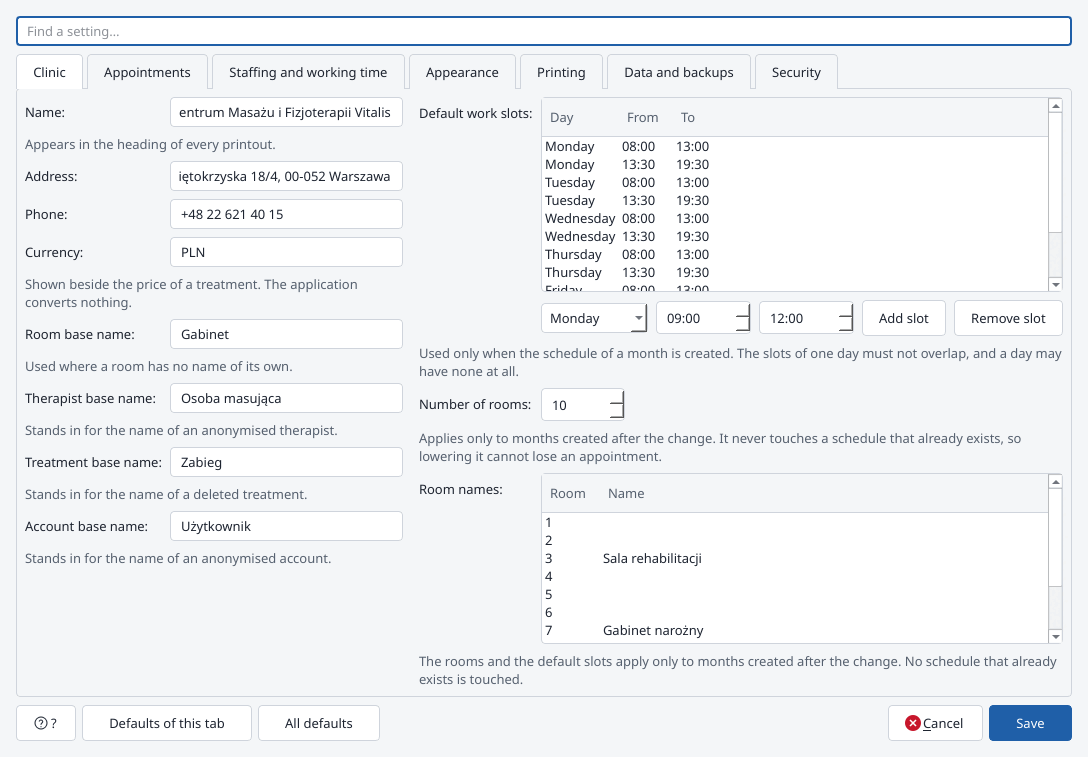
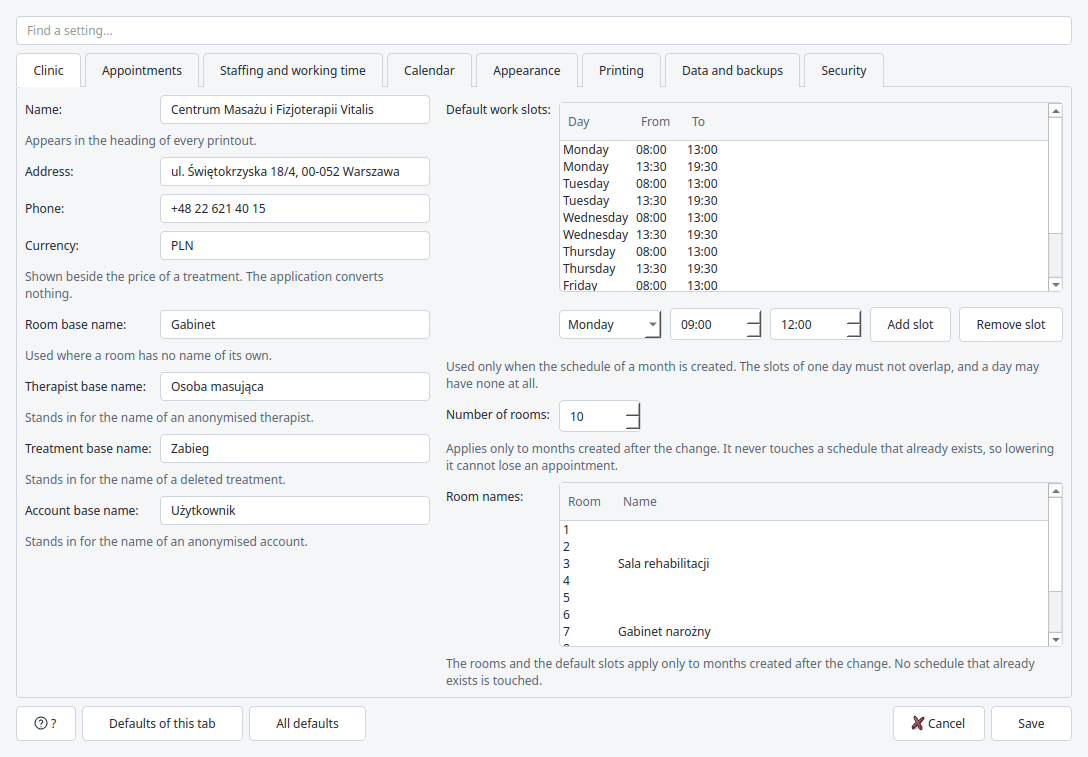
GH pages update

diff --git a/docs/en/index.html b/docs/en/index.html
@@ -54,7 +54,7 @@
     <div class="wrap">
         <div class="hero-grid">
             <div>
-                <span class="eyebrow">Version 1.4.0 · Windows and Linux</span>
+                <span class="eyebrow">Version 1.6.0 · Windows and Linux</span>
                 <h1>Schedule and patient records for a massage therapy clinic</h1>
                 <p class="lede">
                     <strong>clinic</strong> runs the front desk of a therapeutic massage clinic:
@@ -128,8 +128,8 @@
                 <p>
                     Search by any fragment of any field, a journal of contraindications,
                     a register of unexcused absences and a warning note — all visible before an
-                    appointment is saved. The visit history and a quick booking of the next
-                    appointment sit right in the patient card.
+                    appointment is saved. The appointments with the state of their invoices and
+                    a quick booking of the next one sit right in the patient card.
                 </p>
             </article>
             <article class="card">
@@ -180,7 +180,7 @@
                 <ul class="feature-list">
                     <li><strong>Three spans</strong> — a day, several days (2–6) and a week (5 or 7 days), switched with one click or a shortcut.</li>
                     <li><strong>The staffing heading</strong> above every room names everybody who worked in it during the slot; finished shifts are struck through and the colour comes from the therapist catalogue.</li>
-                    <li><strong>An appointment tile</strong> shows the time, the patient and the treatment, and once completed also the therapist; the colour follows the status and the turnaround is drawn as a separate bar.</li>
+                    <li><strong>An appointment tile</strong> shows the time, the patient and the treatment, and once completed also the therapist; the colour and the opacity follow the status, an icon in the corner tells the invoice, and the turnaround is drawn as a separate bar.</li>
                     <li><strong>Mouse work</strong> — selecting empty space creates an appointment, dragging moves it between hours, rooms and days, and the bottom edge changes its length.</li>
                     <li><strong>Filters and scaling</strong> — hide statuses and rooms, zoom vertically and horizontally, print exactly what is on the screen.</li>
                 </ul>
@@ -207,6 +207,7 @@
                 </p>
                 <ul class="feature-list">
                     <li><strong>A series of appointments</strong> — the “ticked k of N” counter makes sure the patient leaves with a full set, and clashes with their other appointments are blocked as they are ticked.</li>
+                    <li><strong>A horizon or an end date</strong> — the search reaches a number of days ahead or up to a day picked from a calendar; the window remembers the last choice and the last date.</li>
                     <li><strong>Free rooms beside every time</strong> — either leave the choice to the program or pick a room by hand.</li>
                     <li><strong>A therapist criterion</strong> — when the patient asks for somebody in particular, the result narrows down to the rooms those people staff.</li>
                     <li><strong>Warnings before saving</strong> — the patient's contraindications, the untrusted mark and the months that have no schedule yet.</li>
@@ -229,22 +230,23 @@
                 <p>
                     The patient card holds the personal and address data, administrative notes,
                     the journal of contraindications, referrals and consents, the register of
-                    absences and the full visit history.
+                    absences and the full list of appointments with the state of each invoice.
                 </p>
                 <ul class="feature-list">
                     <li><strong>One search field</strong> — first name, surname, record number, national ID, phone, e-mail or address; matching ignores letter case and Polish diacritics.</li>
                     <li><strong>Contraindications as a journal</strong> — dated entries added one after another, never overwritten, with the warning already visible when the patient is picked.</li>
                     <li><strong>Patient trust</strong> — unexcused absences are counted against a threshold; an untrusted patient is marked with a colour and an “(!)” everywhere they appear.</li>
+                    <li><strong>Appointments and invoices in one place</strong> — the “Appointments” tab gives the therapist and the state of the invoice for every appointment: no, yes or collected; a double click opens the appointment form.</li>
                     <li><strong>Anonymisation on request (GDPR)</strong> — the personal data goes, the record number and the visit history stay.</li>
                     <li><strong>The record number</strong> is assigned automatically and never reused.</li>
                 </ul>
             </div>
             <figure class="shot">
                 <div class="shot-frame">
-                    <div class="bar"><i></i><i></i><i></i><span>Patient card — visit history</span></div>
-                    <img src="../assets/img/screens/en/patient-history.png" alt="The patient card with the visit history tab" loading="lazy" width="1100" height="540">
+                    <div class="bar"><i></i><i></i><i></i><span>Patient card — appointments</span></div>
+                    <img src="../assets/img/screens/en/patient-history.png" alt="The patient card with the appointments tab and its invoice column" loading="lazy" width="1100" height="540">
                 </div>
-                <figcaption>The patient card — record, contraindications, absences and visit history.</figcaption>
+                <figcaption>The patient card — record, contraindications, absences and appointments, with the state of the invoice for each.</figcaption>
             </figure>
         </div>
 
@@ -261,6 +263,7 @@
                 </p>
                 <ul class="feature-list">
                     <li><strong>The appointment form</strong> with the length, the turnaround, the room, an administrative note and the invoice markers.</li>
+                    <li><strong>Any change of status</strong> — from every status to every other one, in any slot; a cancelled appointment comes back while its time is still free.</li>
                     <li><strong>Cancelling with a reason</strong> and a “patient did not show up” box that feeds the register of absences.</li>
                     <li><strong>Bulk completion</strong> of a whole slot once it has finished.</li>
                     <li><strong>The call list</strong> — the appointments of a chosen day that nobody has confirmed yet, with phone numbers and confirmation right in the list.</li>
@@ -343,16 +346,17 @@
                 <ul class="feature-list">
                     <li><strong>Therapists</strong> with their calendar colour, phone, active state and absences (holiday, sick leave).</li>
                     <li><strong>Treatments</strong> with a length, a short name and an informative price.</li>
-                    <li><strong>Seven tabs of settings</strong> with a search field over them — from the clinic details to the status colours and the security rules.</li>
-                    <li><strong>Appearance</strong> — a light or dark theme or the one of the system, the widget style and the interface language (Polish or English).</li>
+                    <li><strong>Eight tabs of settings</strong> with a search field over them — from the clinic details to the status colours and the security rules.</li>
+                    <li><strong>Calendar</strong> — the scale and the starting span, the helper lines, and the colour, text size and height of the three headings of the grid; a taller strip wraps a long name instead of enlarging the letters.</li>
+                    <li><strong>Appearance</strong> — a light or dark theme or the one of the system, the widget style, the interface language (Polish or English) and the colours and opacity of the tiles, the colours of the patient markings and of the invoice icons.</li>
                 </ul>
             </div>
             <figure class="shot">
                 <div class="shot-frame">
                     <div class="bar"><i></i><i></i><i></i><span>Settings — the Appearance tab</span></div>
-                    <img src="../assets/img/screens/en/settings-appearance.png" alt="The settings window, appearance tab with status colours and the language choice" loading="lazy" width="1088" height="757">
+                    <img src="../assets/img/screens/en/settings-appearance.png" alt="The settings window, appearance tab with the colours of the statuses, the markings and the invoice" loading="lazy" width="1088" height="757">
                 </div>
-                <figcaption>Settings — calendar scale, status colours, theme and language.</figcaption>
+                <figcaption>Settings — theme, style, language and the colours of the statuses, of the patient markings and of the invoice.</figcaption>
             </figure>
         </div>
 
@@ -469,7 +473,7 @@
         <div class="download-grid">
             <div class="download-card">
                 <h3>The latest release</h3>
-                <p class="muted small">Current version: <strong>1.4.0</strong></p>
+                <p class="muted small">Current version: <strong>1.6.0</strong></p>
                 <a class="btn btn-solid" href="https://github.com/krzysztofkaczor84/clinic/releases/latest">
                     <svg viewBox="0 0 24 24" fill="none" stroke="currentColor" stroke-width="2" stroke-linecap="round" stroke-linejoin="round"><path d="M12 3v12m0 0 4-4m-4 4-4-4M4 17v2a2 2 0 0 0 2 2h12a2 2 0 0 0 2-2v-2"/></svg>
                     Go to the releases on GitHub
@@ -526,13 +530,18 @@
                 </ul>
             </div>
             <div class="card">
-                <h3>New in 1.4.0</h3>
+                <h3>New in 1.6.0</h3>
                 <ul>
-                    <li><strong>Substitutions</strong> in the staffing heading — the replaced person stays visible and their working time in that room is zero.</li>
-                    <li><strong>A room to pick</strong> beside every time found in the booking window.</li>
-                    <li><strong>A therapist filter</strong> when searching for free times.</li>
-                    <li><strong>The widget style</strong> can be chosen in the settings, next to the theme and the language.</li>
-                    <li>Fixes in the context menus of the calendar and in moving staffing between rooms.</li>
+                    <li>The settings of the calendar have <strong>a “Calendar” tab of their own</strong>; “Appearance” keeps what the application as a whole is painted in, and the colours of the tiles and the markings.</li>
+                    <li>Every heading of the grid has <strong>a strip height separate from its text size</strong>: making the strip taller buys room for a second line, not larger letters.</li>
+                    <li><strong>Room names and therapists' names are wrapped</strong> where the strip has room for it, instead of being cut off with an ellipsis.</li>
+                    <li>A new setting for <strong>the size of the text on a tile</strong>.</li>
+                    <li><strong>The colour marking a patient</strong> — untrusted, or carrying a warning note — is now what the whole of the calendar tile is written in, exactly as the marking works on the lists.</li>
+                    <li>The state of an invoice is read off <strong>an icon in the top right corner of the tile</strong>, on the line of the time: an outline while the patient waits for it, filled once it has been collected. The “[invoice]” words are gone and have given a line of the tile back.</li>
+                    <li><strong>Tile and text opacity</strong> — the colour picker of every status, of both invoice icons and of the patient markings has an alpha channel, and the tile text an opacity of its own.</li>
+                    <li><strong>Referrals and contact consents</strong> are added, edited and removed on the patient card; a withdrawn consent stays on the card as a date.</li>
+                    <li><strong>The status of an appointment changes to any other one</strong>, in any slot — “Mark as planned” is new, and a cancelled appointment comes back while its time is still free.</li>
+                    <li>Fixed: <strong>the number of backups kept</strong> takes effect as soon as the settings are saved, without restarting the application.</li>
                 </ul>
                 <p class="small muted mb-0">The full list of changes is in the release notes on GitHub.</p>
             </div>
@@ -696,7 +705,7 @@
                 <h4>clinic</h4>
                 <p class="mb-0">
                     An application for the schedule, the patient records and the working time log
-                    of a therapeutic massage clinic. Version 1.4.0.
+                    of a therapeutic massage clinic. Version 1.6.0.
                 </p>
             </div>
             <div>

diff --git a/docs/index.html b/docs/index.html
@@ -54,7 +54,7 @@
     <div class="wrap">
         <div class="hero-grid">
             <div>
-                <span class="eyebrow">Wersja 1.4.0 · Windows i Linux</span>
+                <span class="eyebrow">Wersja 1.6.0 · Windows i Linux</span>
                 <h1>Grafik i kartoteka przychodni masażu leczniczego</h1>
                 <p class="lede">
                     <strong>clinic</strong> to program na stanowisko rejestracji: prowadzi grafik
@@ -127,8 +127,8 @@
                 <p>
                     Wyszukiwanie po dowolnym fragmencie danych, dziennik przeciwwskazań,
                     rejestr nieobecności nieusprawiedliwionych i uwagi ostrzegawcze — widoczne
-                    zanim wizyta zostanie zapisana. Historia wizyt i szybkie umówienie kolejnej
-                    wprost z karty pacjenta.
+                    zanim wizyta zostanie zapisana. Wizyty ze stanem faktury i szybkie umówienie
+                    kolejnej wprost z karty pacjenta.
                 </p>
             </article>
             <article class="card">
@@ -179,7 +179,7 @@
                 <ul class="feature-list">
                     <li><strong>Trzy zakresy widoku</strong> — dzień, kilka dni (2–6) i tydzień (5 albo 7 dni), przełączane jednym kliknięciem lub skrótem.</li>
                     <li><strong>Nagłówek obsady</strong> nad każdym gabinetem wymienia wszystkie osoby dyżurujące w slocie; zakończone dyżury są przekreślone, a kolor pochodzi ze słownika osób.</li>
-                    <li><strong>Kafelek wizyty</strong> pokazuje godzinę, pacjenta i zabieg, a po realizacji także osobę masującą; kolor zależy od statusu, przerwa po zabiegu rysowana jest osobnym paskiem.</li>
+                    <li><strong>Kafelek wizyty</strong> pokazuje godzinę, pacjenta i zabieg, a po realizacji także osobę masującą; kolor i przezroczystość zależą od statusu, ikonka w rogu mówi o fakturze, przerwa po zabiegu rysowana jest osobnym paskiem.</li>
                     <li><strong>Praca myszą</strong> — zaznaczenie pustego miejsca tworzy wizytę, przeciągnięcie przenosi ją między godzinami, gabinetami i dniami, a dolna krawędź zmienia czas trwania.</li>
                     <li><strong>Filtry i skalowanie</strong> — ukrywanie statusów i gabinetów, powiększanie w pionie i w poziomie, wydruk dokładnie tego, co widać.</li>
                 </ul>
@@ -205,6 +205,7 @@
                 </p>
                 <ul class="feature-list">
                     <li><strong>Seria wizyt</strong> — licznik „zaznaczono k z N” pilnuje, by pacjent wyszedł z kompletem terminów, a kolizje z jego innymi wizytami blokowane są od razu.</li>
+                    <li><strong>Horyzont albo data graniczna</strong> — wyszukiwanie sięga podaną liczbę dni naprzód albo do wybranego w kalendarzu dnia; okno pamięta ostatni wybór i ostatnią datę.</li>
                     <li><strong>Wolne gabinety przy każdym terminie</strong> — można zdać się na automatyczny przydział albo wskazać gabinet ręcznie.</li>
                     <li><strong>Kryterium osoby masującej</strong> — gdy pacjent prosi o kogoś konkretnego, wynik zawęża się do gabinetów obsadzonych przez wskazane osoby.</li>
                     <li><strong>Ostrzeżenia przed zapisem</strong> — przeciwwskazania pacjenta, oznaczenie niezaufania i miesiące bez utworzonego grafiku.</li>
@@ -227,22 +228,23 @@
                 <p>
                     Karta pacjenta zbiera dane osobowe i adresowe, uwagi administracyjne,
                     dziennik przeciwwskazań, skierowania i zgody, rejestr nieobecności oraz
-                    pełną historię wizyt.
+                    pełną listę wizyt ze stanem faktury każdej z nich.
                 </p>
                 <ul class="feature-list">
                     <li><strong>Jedno pole wyszukiwania</strong> — imię, nazwisko, numer kartoteki, PESEL, telefon, e-mail lub adres; dopasowanie niewrażliwe na wielkość liter i polskie znaki.</li>
                     <li><strong>Przeciwwskazania jako dziennik</strong> — kolejne wpisy z datą, bez nadpisywania wcześniejszych, z ostrzeżeniem widocznym już przy wyborze pacjenta.</li>
                     <li><strong>Zaufanie pacjenta</strong> — nieobecności nieusprawiedliwione zliczane do progu; pacjent niezaufany oznaczany kolorem i znakiem „(!)” wszędzie, gdzie się pojawia.</li>
+                    <li><strong>Wizyty i faktury w jednym miejscu</strong> — zakładka „Wizyty” podaje przy każdej wizycie osobę masującą i stan faktury: nie, tak albo odebrana; dwukrotne kliknięcie otwiera formularz wizyty.</li>
                     <li><strong>Anonimizacja na żądanie (RODO)</strong> — dane osobowe znikają, a numer kartoteki i historia wizyt zostają.</li>
                     <li><strong>Numer kartoteki</strong> nadawany automatycznie i nigdy nieużywany powtórnie.</li>
                 </ul>
             </div>
             <figure class="shot">
                 <div class="shot-frame">
-                    <div class="bar"><i></i><i></i><i></i><span>Karta pacjenta — historia wizyt</span></div>
-                    <img src="assets/img/screens/pl/patient-history.png" alt="Karta pacjenta z zakładką historii wizyt" loading="lazy" width="1100" height="540">
+                    <div class="bar"><i></i><i></i><i></i><span>Karta pacjenta — wizyty</span></div>
+                    <img src="assets/img/screens/pl/patient-history.png" alt="Karta pacjenta z zakładką wizyt i kolumną faktury" loading="lazy" width="1100" height="540">
                 </div>
-                <figcaption>Karta pacjenta — zakładki kartoteki, przeciwwskazań, nieobecności i historii wizyt.</figcaption>
+                <figcaption>Karta pacjenta — zakładki kartoteki, przeciwwskazań, nieobecności i wizyt, ze stanem faktury przy każdej wizycie.</figcaption>
             </figure>
         </div>
 
@@ -259,6 +261,7 @@
                 </p>
                 <ul class="feature-list">
                     <li><strong>Formularz wizyty</strong> z czasem trwania, przerwą, gabinetem, notatką administracyjną i znacznikami faktury.</li>
+                    <li><strong>Dowolna zmiana statusu</strong> — z każdego na każdy inny, w każdym slocie; wizytę odwołaną da się przywrócić, dopóki jej termin jest wolny.</li>
                     <li><strong>Odwołanie z powodem</strong> i polem „nieobecność pacjenta”, które zasila rejestr nieobecności.</li>
                     <li><strong>Zbiorcze oznaczanie</strong> wizyt slotu jako zrealizowanych po jego zakończeniu.</li>
                     <li><strong>Lista do obdzwonienia</strong> — wizyty niepotwierdzone z wybranego dnia, razem z telefonami; potwierdzenie wprost na liście.</li>
@@ -342,16 +345,17 @@
                 <ul class="feature-list">
                     <li><strong>Osoby masujące</strong> z kolorem w kalendarzu, telefonem, stanem aktywności i nieobecnościami (urlop, L4).</li>
                     <li><strong>Zabiegi</strong> z czasem trwania, skrótem i ceną informacyjną.</li>
-                    <li><strong>Konfiguracja w siedmiu zakładkach</strong> z polem wyszukiwania ustawienia — od danych przychodni po kolory statusów i zasady bezpieczeństwa.</li>
-                    <li><strong>Wygląd</strong> — motyw jasny, ciemny albo zgodny z systemem, styl widżetów i język interfejsu (polski lub angielski).</li>
+                    <li><strong>Konfiguracja w ośmiu zakładkach</strong> z polem wyszukiwania ustawienia — od danych przychodni po kolory statusów i zasady bezpieczeństwa.</li>
+                    <li><strong>Kalendarz</strong> — skala i zakres startowy, podziałka pomocnicza oraz kolor, rozmiar tekstu i wysokość trzech nagłówków siatki; wyższy pasek zawija długie nazwy, nie powiększając liter.</li>
+                    <li><strong>Wygląd</strong> — motyw jasny, ciemny albo zgodny z systemem, styl widżetów, język interfejsu (polski lub angielski) oraz kolory i przezroczystość kafelków, kolory oznaczeń pacjenta i ikonek faktury.</li>
                 </ul>
             </div>
             <figure class="shot">
                 <div class="shot-frame">
                     <div class="bar"><i></i><i></i><i></i><span>Konfiguracja — zakładka Wygląd</span></div>
-                    <img src="assets/img/screens/pl/settings-appearance.png" alt="Okno konfiguracji, zakładka wyglądu z kolorami statusów i wyborem języka" loading="lazy" width="1192" height="757">
+                    <img src="assets/img/screens/pl/settings-appearance.png" alt="Okno konfiguracji, zakładka wyglądu z kolorami statusów, oznaczeń i faktury" loading="lazy" width="1192" height="757">
                 </div>
-                <figcaption>Konfiguracja — skala kalendarza, kolory statusów, motyw i język.</figcaption>
+                <figcaption>Konfiguracja — motyw, styl, język oraz kolory statusów, oznaczeń pacjenta i faktury.</figcaption>
             </figure>
         </div>
 
@@ -468,7 +472,7 @@
         <div class="download-grid">
             <div class="download-card">
                 <h3>Najnowsze wydanie</h3>
-                <p class="muted small">Bieżąca wersja: <strong>1.4.0</strong></p>
+                <p class="muted small">Bieżąca wersja: <strong>1.6.0</strong></p>
                 <a class="btn btn-solid" href="https://github.com/krzysztofkaczor84/clinic/releases/latest">
                     <svg viewBox="0 0 24 24" fill="none" stroke="currentColor" stroke-width="2" stroke-linecap="round" stroke-linejoin="round"><path d="M12 3v12m0 0 4-4m-4 4-4-4M4 17v2a2 2 0 0 0 2 2h12a2 2 0 0 0 2-2v-2"/></svg>
                     Przejdź do wydań na GitHubie
@@ -524,13 +528,18 @@
                 </ul>
             </div>
             <div class="card">
-                <h3>Co nowego w 1.4.0</h3>
+                <h3>Co nowego w 1.6.0</h3>
                 <ul>
-                    <li><strong>Zastępstwa</strong> w nagłówku obsady — osoba zastąpiona zostaje widoczna, a jej czas pracy w tym gabinecie wynosi zero.</li>
-                    <li><strong>Wybór gabinetu</strong> przy każdym znalezionym terminie w oknie umawiania wizyt.</li>
-                    <li><strong>Filtr osoby masującej</strong> przy wyszukiwaniu wolnych terminów.</li>
-                    <li><strong>Styl widżetów</strong> do wyboru w konfiguracji, obok motywu i języka.</li>
-                    <li>Poprawki w menu kontekstowych kalendarza i w przenoszeniu obsady między gabinetami.</li>
+                    <li>Ustawienia kalendarza mają <strong>własną zakładkę „Kalendarz”</strong> w oknie konfiguracji; w „Wyglądzie” zostało to, czym malowany jest cały program, oraz kolory kafelków i oznaczeń.</li>
+                    <li>Każdy nagłówek siatki ma <strong>wysokość paska osobno od rozmiaru tekstu</strong>: podwyższenie paska daje miejsce na drugi wiersz, a nie większe litery.</li>
+                    <li><strong>Nazwy gabinetów i nazwiska osób masujących są zawijane</strong>, jeżeli pasek ma na to miejsce — zamiast być ucinane wielokropkiem.</li>
+                    <li>Nowe ustawienie <strong>rozmiaru tekstu kafelka</strong> wizyty.</li>
+                    <li><strong>Kolor oznaczenia pacjenta</strong> — niezaufanego albo z uwagą ostrzegawczą — obejmuje teraz całą treść kafelka kalendarza, tak jak oznaczenie na listach.</li>
+                    <li>Stan faktury czyta się z <strong>ikonki w prawym górnym rogu kafelka</strong>, w wierszu godziny: kontur, gdy pacjent czeka na fakturę, wypełniona, gdy ją odebrał. Dopisek „[faktura]” zniknął i zwolnił wiersz treści.</li>
+                    <li><strong>Przezroczystość kafelków i tekstu</strong> — okno wyboru koloru każdego statusu, ikonki faktury i oznaczenia pacjenta ma kanał alfa, a tekst kafelka własną nieprzezroczystość.</li>
+                    <li><strong>Skierowania i zgody na kontakt</strong> dodaje się, edytuje i usuwa na karcie pacjenta; wycofanie zgody zostaje na karcie jako data.</li>
+                    <li><strong>Status wizyty zmienia się na dowolny inny</strong>, w każdym slocie — doszło „Oznacz jako zaplanowaną”, a wizytę odwołaną można przywrócić, dopóki jej termin jest wolny.</li>
+                    <li>Poprawka: <strong>liczba przechowywanych kopii zapasowych</strong> działa od razu po zapisaniu ustawień, bez ponownego uruchamiania programu.</li>
                 </ul>
                 <p class="small muted mb-0">Pełna lista zmian znajduje się w opisie wydania na GitHubie.</p>
             </div>
@@ -693,7 +702,7 @@
                 <h4>clinic</h4>
                 <p class="mb-0">
                     Program do prowadzenia grafiku, kartoteki pacjentów i ewidencji czasu pracy
-                    w przychodni masażu leczniczego. Wersja 1.4.0.
+                    w przychodni masażu leczniczego. Wersja 1.6.0.
                 </p>
             </div>
             <div>

diff --git a/docs/README.md b/docs/README.md
@@ -54,7 +54,13 @@ w stronach nie jest bezwzględny, więc działa w obu układach.
 - **Zrzuty ekranu** to zwykłe pliki PNG w `assets/img/screens/⟨język⟩/`; podmiana
   pliku o tej samej nazwie wystarcza. Zrzuty pochodzą z wersji 1.4.0 uruchomionej na
   zestawie `data-example` z repozytorium kodu, w interfejsie polskim i angielskim
-  (język wybiera się w konfiguracji, zakładka *Wygląd*).
+  (język wybiera się w konfiguracji, zakładka *Wygląd*). Wyjątki: zakładka „Wizyty”
+  karty pacjenta (`patient-history.png`, pacjentka nr 218) — z wersji 1.5.0; kalendarz
+  i okno konfiguracji (`calendar-day.png`, `calendar-week.png`, `settings.png`,
+  `settings-appearance.png`) — z wersji 1.6.0, która rozdzieliła zakładki „Kalendarz”
+  i „Wygląd”, oznaczyła fakturę ikonką w rogu kafelka, dodała przezroczystość kolorów
+  kafelków i przeniosła kolor oznaczenia pacjenta na kafelek. Kalendarz i zakładka
+  „Wygląd” zrobione 2026-09-24, więc pokazują ten dzień i jego tydzień.
 - **Adres wydań** (`https://github.com/krzysztofkaczor84/clinic/releases/latest`)
   występuje w przyciskach sekcji hero i pobierania oraz w stopce.
 
